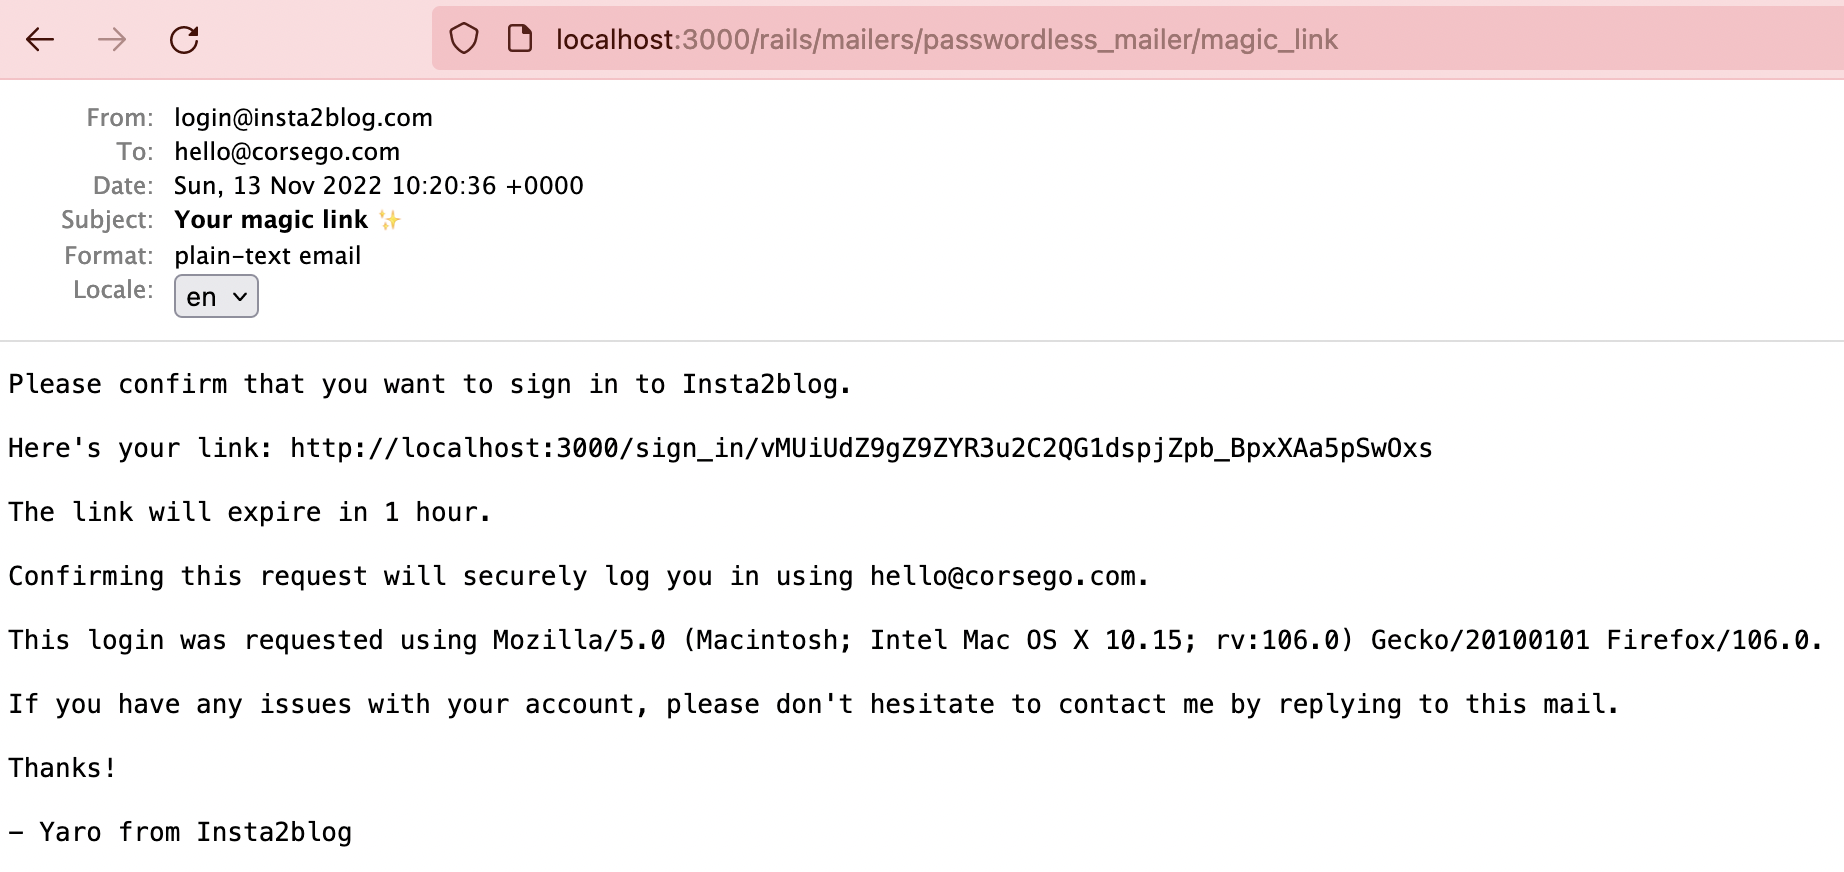
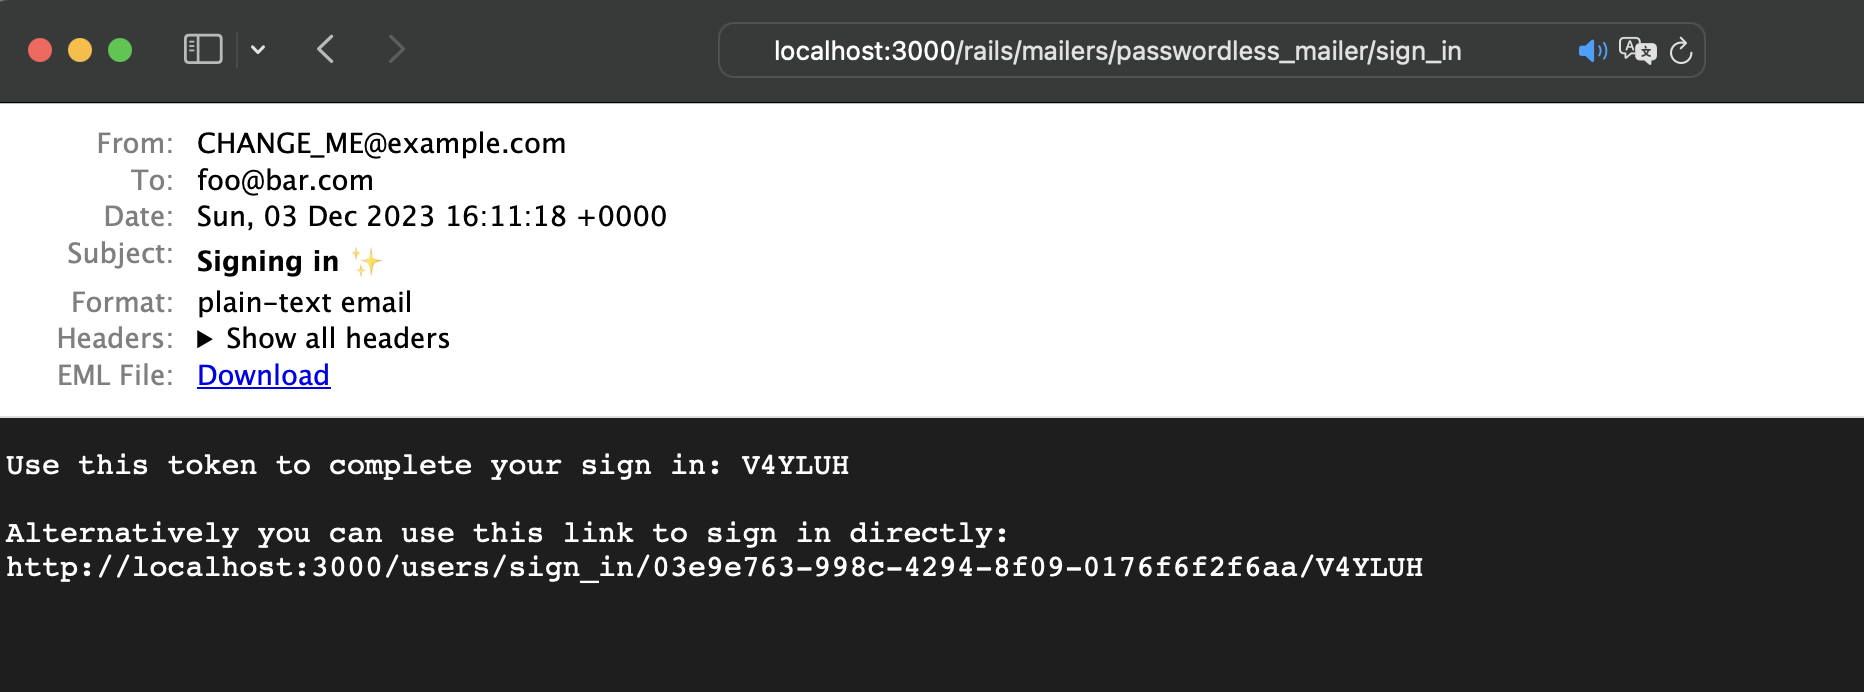
update passwordless post to be v1 compatible

diff --git a/_posts/2022-11-13-gem-passwordless-magic-link-auth.md b/_posts/2022-11-13-gem-passwordless-magic-link-auth.md
@@ -8,14 +8,18 @@ thumbnail: /assets/thumbnails/lock.png
 
 Passwordless authentication via magic link is an interesting alternative to email-password authentication solutions like Devise.
 
-![passwordless-magic-link-form](/assets/images/passwordless-magic-link-form.png)
+For the first ever time I saw passwordless login in Slack:
+
+![passwordless-slack-example](/assets/images/passwordless-slack-example.png)
 
 A passwordless authentication flow looks like this:
-- Enter your email address
-- Receive login link in an email
-- Click link -> You are logged in
+1. Enter your email address
+2. Receive **login link** or/and **token** in an email
+3. Click link/Input token -> You are logged in
 
 I've implemented passwordless authentication in [insta2blog.com](https://insta2blog.com), and for now I am super happy with the solution 🚀. Feel free to try it out!
+
+![passwordless-magic-link-form](/assets/images/passwordless-magic-link-form.png)
 
 In a way this is a more secure authenication strategy, because there is no compromised password point of failure. It is as secure as your email account. 
 
@@ -29,7 +33,27 @@ Here's how the authentication (login) flow looks in my app:
 
 ### 1. Install [gem passwordless](https://github.com/mikker/passwordless)
 
-Apart of following the official installation guide, here are some of my improvements.
+Apart of following the official installation guide, here are some of my improvements:
+
+The routes helper
+
+```ruby
+# config/routes.rb
+  passwordless_for :users
+```
+
+will generate
+```ruby
+Prefix Verb                 URI Pattern                         Controller#Action
+users_sign_in GET           /users/sign_in(.:format)            passwordless/sessions#new {:authenticatable=>:user, :resource=>:users}
+POST                        /users/sign_in(.:format)            passwordless/sessions#create {:authenticatable=>:user, :resource=>:users}
+verify_users_sign_in GET    /users/sign_in/:id(.:format)        passwordless/sessions#show {:authenticatable=>:user, :resource=>:users}
+confirm_users_sign_in GET   /users/sign_in/:id/:token(.:format) passwordless/sessions#confirm {:authenticatable=>:user, :resource=>:users}
+PATCH                       /users/sign_in/:id(.:format)        passwordless/sessions#update {:authenticatable=>:user, :resource=>:users}
+users_sign_out GET|DELETE   /users/sign_out(.:format)           passwordless/sessions#destroy {:authenticatable=>:user, :resource=>:users}
+```
+
+Update user model, enable user creation:
 
 ```ruby
 # app/models/user.rb
@@ -66,48 +90,30 @@ Login/Logout links:
 
 ```ruby
 # app/views/layouts/application.html.erb
+<%= notice %>
+<%= alert %>
 <% if current_user %>
   <%= current_user.email %>
-  <%= button_to 'Sign out', auth.sign_out_path, method: :delete, form: { data: { turbo_confirm: 'Log out?' } } %>
+  <%= button_to 'Sign out', users_sign_out_path, method: :delete, form: { data: { turbo_confirm: 'Log out?' } } %>
 <% else %>
-  <%= link_to 'Sign in', auth.sign_in_path %>
+  <%= link_to 'Sign in', users_sign_in_path %>
 <% end %>
 ```
 
-### 2. Update email template
+### 2. Email template preview
 
 Preview magic link email with Rails ActionMailer previews:
 
 ```ruby
 # test/mailers/previews/passwordless_mailer_preview.rb
 class PasswordlessMailerPreview < ActionMailer::Preview
-  # http://localhost:3000/rails/mailers/passwordless_mailer/magic_link
-  def magic_link
-    session = Passwordless::Session.first
-    Passwordless::Mailer.magic_link(session).deliver_now
+  # http://localhost:3000/rails/mailers/passwordless_mailer/sign_in
+  def sign_in
+    user = User.build(email: 'foo@bar.com')
+    session = Passwordless::Session.create!(authenticatable: user)
+    Passwordless::Mailer.sign_in(session)
   end
 end
-```
-
-Add better wording to the passwordless email:
-
-```html
-<!-- app/views/passwordless/mailer/magic_link.text.erb -->
-Please confirm that you want to sign in to <%= Rails.application.class.module_parent.name %>.
-
-<%= I18n.t('passwordless.mailer.magic_link', link: @magic_link) %>
-
-The link will expire at <%= Passwordless.timeout_at.call %>
-
-Confirming this request will securely log you in using <%= @session.authenticatable.email %>.
-
-This login was requested using <%= @session.user_agent %>.
-
-If you have any issues with your account, please don't hesitate to contact me by replying to this mail.
-
-Thanks!
-
-Yaro from <%= Rails.application.class.module_parent.name %>
 ```
 
 ![passwordless-mailer-preview](/assets/images/passwordless-mailer-preview.png)
@@ -116,34 +122,30 @@ Yaro from <%= Rails.application.class.module_parent.name %>
 
 To automaticall open previews of sent emails (so that you can confirm a magic link), you will need the [**gem letter_opener**](https://github.com/ryanb/letter_opener) gem:
 
-```
-bundle add letter_opener
+```shell
+$ bundle add letter_opener
 ```
 
-```ruby
-  config.action_mailer.default_url_options = { host: 'localhost', port: 3000 }
-  config.action_mailer.delivery_method = :letter_opener
-  config.action_mailer.perform_deliveries = true
-  config.action_mailer.raise_delivery_errors = true
+```diff
+# /config/environments/development.rb
++ Rails.application.routes.default_url_options[:host] = 'localhost:3000'
+Rails.application.configure do
++  config.action_mailer.default_url_options = { host: 'localhost', port: 3000 }
++  config.action_mailer.delivery_method = :letter_opener
++  config.action_mailer.perform_deliveries = true
++  config.action_mailer.raise_delivery_errors = true
 ```
 
 ![passwordless-letter-opener](/assets/images/passwordless-letter-opener.png)
 
-### 4. Troubleshooting. Future development.
+### 4. Custom config
 
-* Add `data: { turbo: 'false' }` for the redirect from the form to work.
-* Add `required: true` for frontend validation of having an email present on submit.
-
-```diff
--<%= form_for @session, url: send(Passwordless.mounted_as).sign_in_path do |f| %>
-+<%= form_with model: @session, url: send(Passwordless.mounted_as).sign_in_path, data: { turbo: 'false' } do |f| %>
-  <% email_field_name = :"passwordless[#{@email_field}]" %>
--  <%= text_field_tag email_field_name, params.fetch(email_field_name, nil) %>
-+  <%= text_field_tag email_field_name, params.fetch(email_field_name, nil), required: true %>
-  <%= f.submit I18n.t('passwordless.sessions.new.submit') %>
-<% end %>
+```ruby
+# config/initializers/passwordless.rb
+Passwordless.configure do |config|
+  config.default_from_address = "login@insta2blog.com"
+  config.success_redirect_path = '/dashboard'
+end
 ```
-
-I've submitted these changes in [a PR to passwordless](https://github.com/mikker/passwordless/pull/128). Let's see if my changes come through.
 
 That's it!
